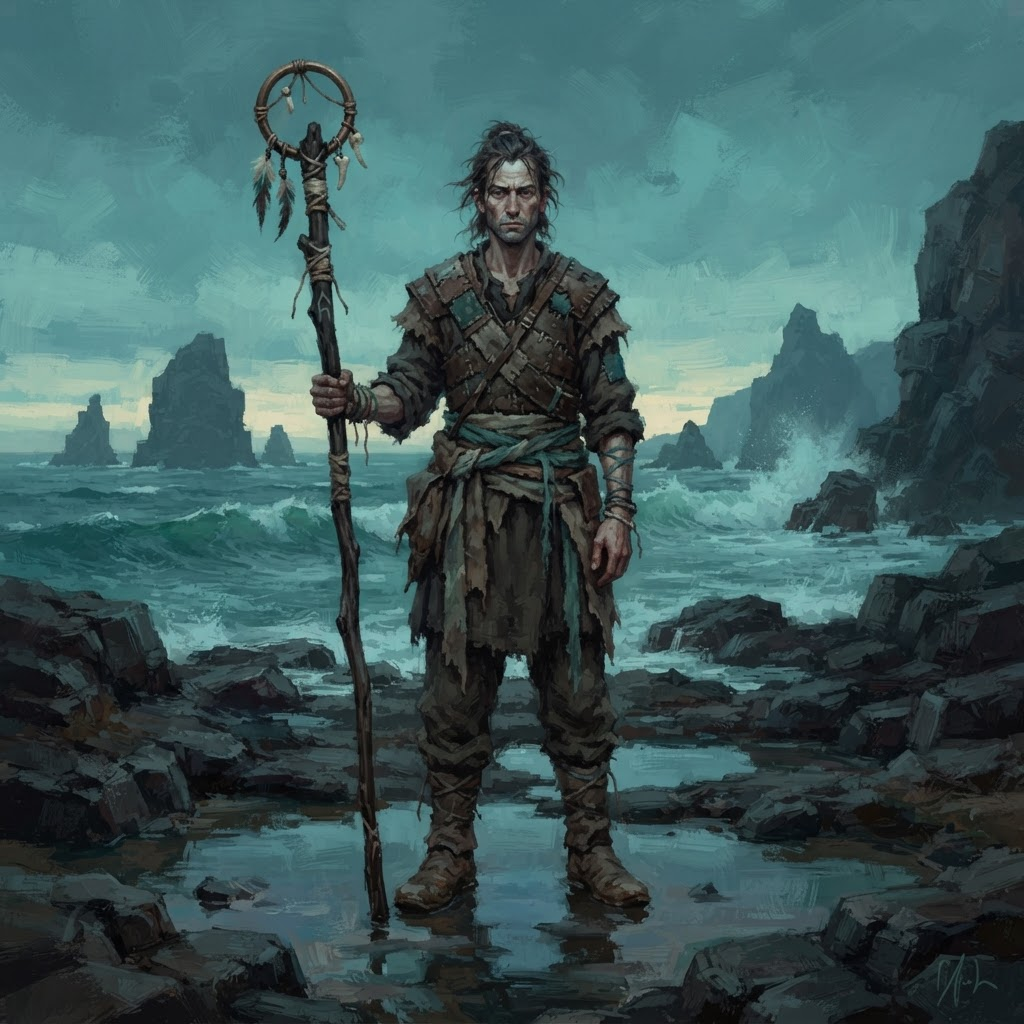
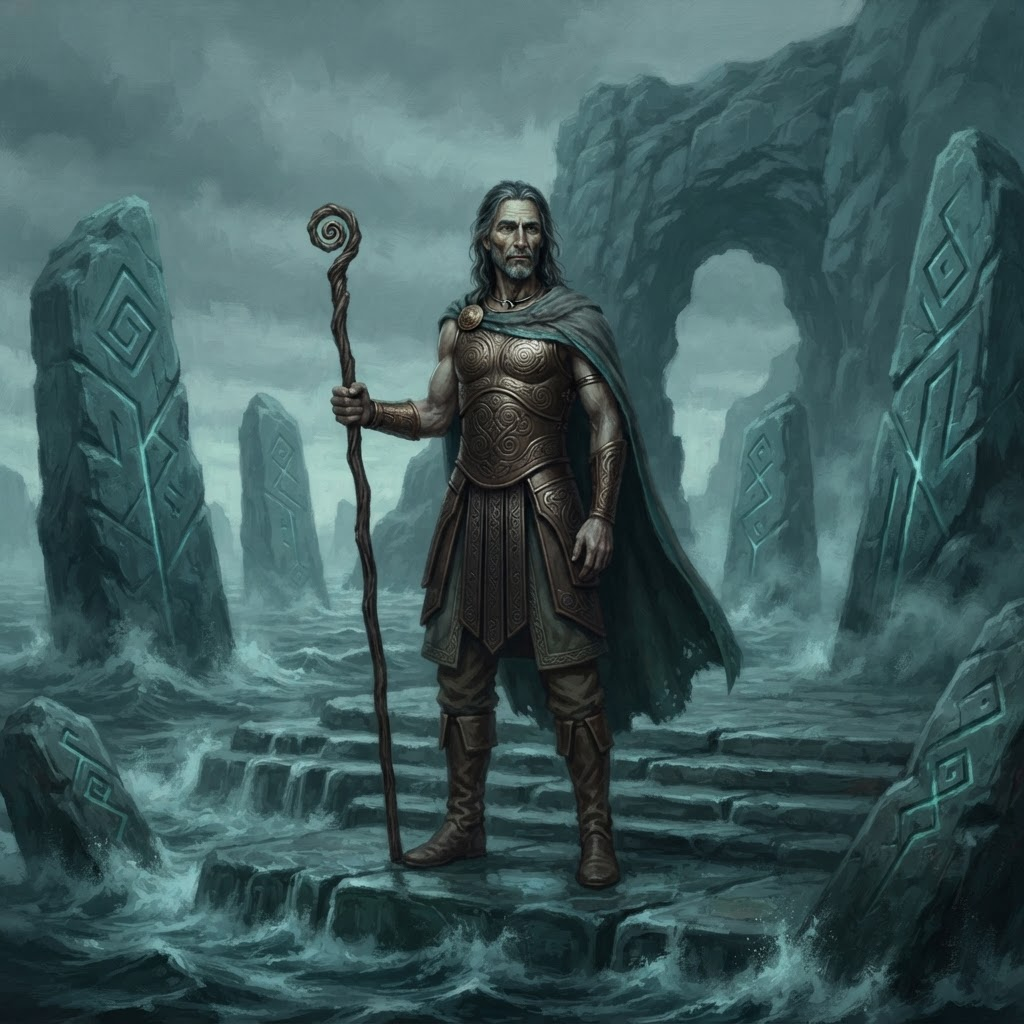
WEAVER M V2 CANON LOCKED (Big: 'Keep') — god-scale Marenth canon; male set 5/6; Wildborn M rolls last

diff --git a/docs/ROSTER-PASS-STATUS.md b/docs/ROSTER-PASS-STATUS.md
@@ -300,7 +300,8 @@ Full pass order: 12 god-emergence re-rolls (6 realms x King+Queen) → Luminary 
 
 - VEILBORN V1 REJECTED (Sept 8 ~4:43 PM, Big: weapons don't match — mismatched pair + an extra belt blade that shouldn't exist). KIT-INTEGRITY LAW added to class art: the class kit renders EXACTLY as designed (Veilborn = matched twin blades and NOTHING else — matched pairs must match; no extra/backup weapons on the body). V2 re-rolled under the law; V3 re-rolled fresh (matched twin blades, one low + one sheathed, empty belt, stair's-foot composition) — CANON LOCKED Sept 8 ~5:20 PM (Big: 'Yeah I approved it earlier'): art/approved/CLASS-VEILBORN-CANON.png. Queue advances: WEAVER (Marenth) next, then Wildborn.
 
-- VERA RENAME (Sept 8 ~7:39 PM, Big: 'Maeve new name is also Vera'): the lorekeeper NPC Maev is now VERA — name updated across live docs (CAMELOT-CREATURES-AND-MAGIC.md, campaign lore); archives keep historical mentions. Pending V2 art file renamed art/pending/NPC-VERA-V2-MYTHIC-CELTIC-FROSTHALL.png. The V2 mythic-Celtic re-roll is still in his court awaiting its verdict.- VEILBORN M V3 CANON LOCKED (Sept 8 ~8:19 PM, Big: 'Keep') — art/approved/CLASS-VEILBORN-CANON.png swapped to the V3 mythic-world roll (solid engraved breastplate, dusk-violet whisper cloak, twin leaf-blades, god-scale Duskmourn). Male set now 4/6 locked: Sovereign ✓ Ravager ✓ Warden ✓ Veilborn ✓. WEAVER M rolls next (Marenth mythic world).
+- VERA RENAME (Sept 8 ~7:39 PM, Big: 'Maeve new name is also Vera'): the lorekeeper NPC Maev is now VERA — name updated across live docs (CAMELOT-CREATURES-AND-MAGIC.md, campaign lore); archives keep historical mentions. Pending V2 art file renamed art/pending/NPC-VERA-V2-MYTHIC-CELTIC-FROSTHALL.png. The V2 mythic-Celtic re-roll is still in his court awaiting its verdict.- WEAVER M V2 CANON LOCKED (Sept 8 ~8:24 PM, Big: 'Keep') — art/approved/CLASS-WEAVER-CANON.png swapped to the V2 mythic-world roll (solid engraved breastplate, tide-teal whisper sea-cloak, gnarled staff, god-scale Marenth). Male set now 5/6 locked. WILDBORN M rolls last to close the male set (Everbloom mythic world).
+- VEILBORN M V3 CANON LOCKED (Sept 8 ~8:19 PM, Big: 'Keep') — art/approved/CLASS-VEILBORN-CANON.png swapped to the V3 mythic-world roll (solid engraved breastplate, dusk-violet whisper cloak, twin leaf-blades, god-scale Duskmourn). Male set now 4/6 locked: Sovereign ✓ Ravager ✓ Warden ✓ Veilborn ✓. WEAVER M rolls next (Marenth mythic world).
 - WARDEN M V2 CANON LOCKED (Sept 8 ~8:02 PM, Big: 'Keep warden') — art/approved/CLASS-WARDEN-CANON.png swapped to the V2 mythic-world roll (solid engraved breastplate, bone-grey whisper cloak, warhammer head-down, god-scale Stoneheart). Male set now 3/6 locked: Sovereign ✓ Ravager ✓ Warden ✓. VEILBORN M rolls next (Duskmourn mythic world).
 - RAVAGER M V3 CANON LOCKED (Sept 8 ~7:45 PM, Big: 'ravager approved aswell') — art/approved/CLASS-RAVAGER-CANON.png swapped to the V3 mythic-world roll (solid engraved breastplate, oxide-red torn mantle, greatsword tip-down, god-scale Ashfall caldera). Male set queue advances: WARDEN M rolls next (Stoneheart mythic world).
 
